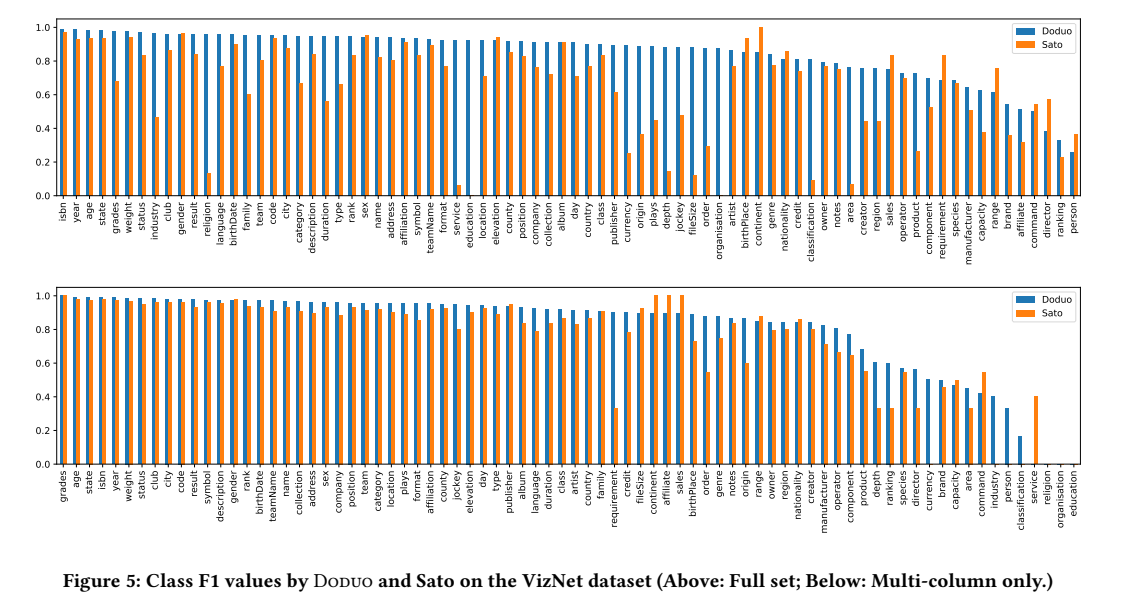
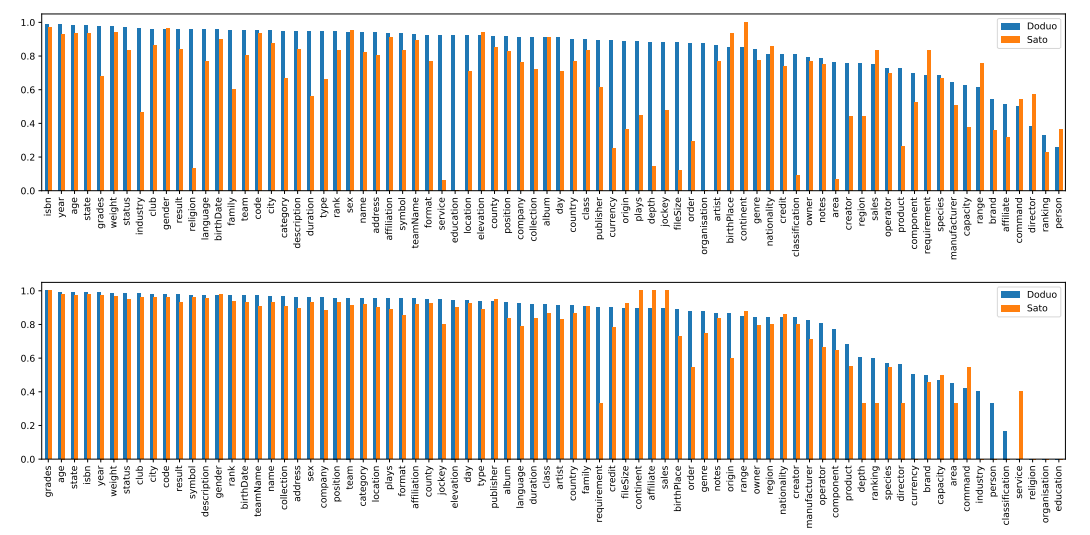
Crop duplicated captions from Doduo paper figures

diff --git a/src/content/posts/doduo-translation/index.md b/src/content/posts/doduo-translation/index.md
@@ -66,7 +66,7 @@ draft: false
 <p class="doduo-zh" lang="zh-CN">图 1 描绘了 Doduo 的模型架构。Doduo 以经过序列化的表格多列取值为输入，输出列类型和列关系的预测。Doduo 通过把同一表格中所有列的列值序列化后一并输入来考虑表格上下文。这样一来，列内信息（即同一列内 token 的共现）和列间信息（即不同列中 token 的共现）都被纳入考虑。Doduo 在每一列的开头附加一个哑符号 [CLS]，并把该符号对应的嵌入作为该列学习到的列表示。位于列嵌入（即 [CLS]）之上的输出层用于列类型预测，而列关系预测的输出层则接收每一对列的列嵌入。</p>
 
 <figure class="doduo-figure">
-  <a href="/images/posts/doduo-translation/figure-1.webp" target="_blank" rel="noopener" aria-label="在新标签页查看原图"><img src="/images/posts/doduo-translation/figure-1.webp" alt="图 1 / Figure 1" width="547" height="542" loading="lazy" decoding="async"></a>
+  <a href="/images/posts/doduo-translation/figure-1.webp" target="_blank" rel="noopener" aria-label="在新标签页查看原图"><img src="/images/posts/doduo-translation/figure-1.webp" alt="图 1 / Figure 1" width="547" height="350" loading="lazy" decoding="async"></a>
   <figcaption>
     <div class="doduo-en" lang="en"><b>Figure 1:</b> Overview of Doduo’s model architecture. Doduo serializes the entire table into a sequence of tokens to make it compatible with the Transformer-based architecture. To handle the column type prediction and column relation extraction tasks, Doduo implements two different output layers on top of column representations and a pair of column representations, respectively.</div>
     <div class="doduo-zh" lang="zh-CN"><b>图 1：</b>Doduo 模型架构总览。Doduo 将整张表格序列化为一个 token 序列，使其与基于 Transformer 的架构相兼容。为处理列类型预测和列关系抽取这两个任务，Doduo 分别在列表示之上和一对列的表示之上实现了两种不同的输出层。</div>
@@ -115,7 +115,7 @@ draft: false
 <p class="doduo-zh" lang="zh-CN">已有的列类型预测模型受益于近年来机器学习的进展，它们把列类型预测表述为一个多类分类任务。Hulsebos 等人 [22] 开发了一个名为 Sherlock 的深度学习模型，在多种特征集上应用神经网络，例如词嵌入、字符嵌入以及从单列取值中提取的全局统计量。Zhang 等人 [66] 开发了 Sato，它在 Sherlock 的基础上加入表格上下文和结构化输出预测，以更好地刻画同一表格中各列之间相关性的本质。其他模型如 ColNet [9]、HNN [10]、Meimei [48]、<i>C</i><sup>2</sup> [24] 则在机器学习模型之上使用外部知识库（KB）来改进列类型预测。这些技术已在列类型预测任务上取得成功，性能优于经典机器学习模型。上述技术关注单列的语义类型，而另一条研究路线则关注同一表格中列与列之间的关系，以更好地理解表格 [4, 13, 28, 29, 34, 54]。</p>
 
 <figure class="doduo-figure">
-  <a href="/images/posts/doduo-translation/figure-2.webp" target="_blank" rel="noopener" aria-label="在新标签页查看原图"><img src="/images/posts/doduo-translation/figure-2.webp" alt="图 2 / Figure 2" width="1138" height="348" loading="lazy" decoding="async"></a>
+  <a href="/images/posts/doduo-translation/figure-2.webp" target="_blank" rel="noopener" aria-label="在新标签页查看原图"><img src="/images/posts/doduo-translation/figure-2.webp" alt="图 2 / Figure 2" width="700" height="215" loading="lazy" decoding="async"></a>
   <figcaption>
     <div class="doduo-en" lang="en"><b>Figure 2:</b> Two example tables from the WikiTable dataset. (a) The task is to predict the column type of each column based on the table values. (b) The task is to predict both column types and relationships between columns. The column types (the column relations) are depicted at the top (at the bottom) of the table. This example also shows that column types and column relations are inter-dependent and hence, our motivation to develop a unified model for predicting both tasks.</div>
     <div class="doduo-zh" lang="zh-CN"><b>图 2：</b>来自 WikiTable 数据集的两张示例表格。(a) 任务是基于表格取值为每一列预测列类型。(b) 任务同时预测列类型与列间关系。列类型（列关系）标注在表格顶部（底部）。该示例还表明，列类型与列关系相互依赖，这也是我们开发统一模型同时预测两个任务的动机。</div>
@@ -275,7 +275,7 @@ draft: false
 <p class="doduo-zh" lang="zh-CN">我们描述 Doduo 如何借助 Transformer 架构，通过上下文化的列嵌入获得表格上下文。图 3 描绘了 Doduo 的每个 Transformer 模块如何从同一表格的所有列值（包括哑符号 [CLS] 及其自身）聚合上下文信息。具体而言，该示例展示了第一层 Transformer 如何以第二列的 [CLS] token 为参照，根据与其他 token 的相似度聚合它们的嵌入来计算注意力向量。因此，同一个符号（如 George）出现在不同上下文中时，其注意力向量可以不同。这解决了 word2vec 或 GloVe 等传统词嵌入技术的歧义问题。</p>
 
 <figure class="doduo-figure">
-  <a href="/images/posts/doduo-translation/figure-3.webp" target="_blank" rel="noopener" aria-label="在新标签页查看原图"><img src="/images/posts/doduo-translation/figure-3.webp" alt="图 3 / Figure 3" width="600" height="281" loading="lazy" decoding="async"></a>
+  <a href="/images/posts/doduo-translation/figure-3.webp" target="_blank" rel="noopener" aria-label="在新标签页查看原图"><img src="/images/posts/doduo-translation/figure-3.webp" alt="图 3 / Figure 3" width="470" height="145" loading="lazy" decoding="async"></a>
   <figcaption>
     <div class="doduo-en" lang="en"><b>Figure 3:</b> How Doduo computes contextualized column embeddings using the Transformer layers. Each Transformer block calculates an embedding vector for every token based on surrounding tokens.</div>
     <div class="doduo-zh" lang="zh-CN"><b>图 3：</b>Doduo 如何利用 Transformer 层计算上下文化的列嵌入。每个 Transformer 模块基于周围的 token 为每个 token 计算一个嵌入向量。</div>
@@ -492,7 +492,7 @@ draft: false
 <p class="doduo-zh" lang="zh-CN"><b>学习效率</b>　预训练 LM 以能用相对少量的标注样本训练出高质量模型而著称。此外，多任务学习（即同时训练多个任务）应在每个任务训练数据更少时进一步稳定性能。为验证 Doduo 与 Dosolo 在标签效率方面的表现，我们比较了用不同训练数据规模（10%、25%、50%、100%）训练的 Doduo 模型，并在列类型预测和列关系预测任务上评估性能。如图 4 所示，Doduo 始终优于 Dosolo，即使只用一半训练数据，在两个任务上也都达到高于 0.9 的 F1 分数。特别地，仅使用 50% 或更少的标注样本，Doduo 在列类型预测上就优于最优方法 TURL，在列关系预测上也达到可与之相比的性能。</p>
 
 <figure class="doduo-figure">
-  <a href="/images/posts/doduo-translation/figure-4.webp" target="_blank" rel="noopener" aria-label="在新标签页查看原图"><img src="/images/posts/doduo-translation/figure-4.webp" alt="图 4 / Figure 4" width="547" height="374" loading="lazy" decoding="async"></a>
+  <a href="/images/posts/doduo-translation/figure-4.webp" target="_blank" rel="noopener" aria-label="在新标签页查看原图"><img src="/images/posts/doduo-translation/figure-4.webp" alt="图 4 / Figure 4" width="547" height="252" loading="lazy" decoding="async"></a>
   <figcaption>
     <div class="doduo-en" lang="en"><b>Figure 4:</b> Performance improvements over increasing the training data size on the WikiTable dataset. The dashed lines in the plots denote the state-of-the-art methods (TURL.)</div>
     <div class="doduo-zh" lang="zh-CN"><b>图 4：</b>在 WikiTable 数据集上，性能随训练数据规模增加而提升的情况。图中的虚线表示当时的最优方法（TURL）。</div>
@@ -684,7 +684,7 @@ draft: false
 <p class="doduo-zh" lang="zh-CN">图 5 展示了 Doduo 与 Sato 在 VizNet（完整集）和 VizNet（仅多列）数据集上每个类别的 F1 分数。在 VizNet 的两个变体上相对 Sato 的提升表明，Doduo 稳健且一致地优于 Sato，尤其是在单列表格上——在单列表格中 Sato 无法受益于表格特征和 CRF。我们发现，Sato 在 religion、education、organisation 这几类上的 F1 为零或非常差。VizNet（完整集）第 1 折的训练数据中，这三类的标注列分别只有 24、22 和 14 个。Sato 应当是由于这些列类型的训练样本不足（很可能还有列类型分布偏斜）而表现不佳。我们表明，Doduo 在这类列类型上表现稳健。</p>
 
 <figure class="doduo-figure">
-  <a href="/images/posts/doduo-translation/figure-5.webp" target="_blank" rel="noopener" aria-label="在新标签页查看原图"><img src="/images/posts/doduo-translation/figure-5.webp" alt="图 5 / Figure 5" width="1127" height="605" loading="lazy" decoding="async"></a>
+  <a href="/images/posts/doduo-translation/figure-5.webp" target="_blank" rel="noopener" aria-label="在新标签页查看原图"><img src="/images/posts/doduo-translation/figure-5.webp" alt="图 5 / Figure 5" width="1090" height="535" loading="lazy" decoding="async"></a>
   <figcaption>
     <div class="doduo-en" lang="en"><b>Figure 5:</b> Class F1 values by Doduo and Sato on the VizNet dataset (Above: Full set; Below: Multi-column only.)</div>
     <div class="doduo-zh" lang="zh-CN"><b>图 5：</b>Doduo 与 Sato 在 VizNet 数据集上各分类的 F1 值（上：完整集；下：仅多列）。</div>
@@ -774,7 +774,7 @@ draft: false
 <p class="doduo-zh" lang="zh-CN">最终矩阵中的每个元素 (<i>i</i>, <i>j</i>) 表示列类型 <i>i</i> 在构造其上下文化表示时对另一个列类型 <i>j</i> 的依赖程度。需要注意，列类型 <i>i</i> 对 <i>j</i>（或 <i>j</i> 对 <i>i</i>）的依赖可以不同，因此该矩阵并不对称。例如，age 高度依赖类型 origin，而反方向的注意力权重为负，显示出较低的依赖程度。为消除列类型共现带来的影响，我们统计了同一表格中列类型的共现情况，并对矩阵做归一化，使参照点为零，以便更直观地解释。最终矩阵由相对重要性分数构成，数值越高/越低表示来自该列类型的影响越强/越弱。</p>
 
 <figure class="doduo-figure">
-  <a href="/images/posts/doduo-translation/figure-6.webp" target="_blank" rel="noopener" aria-label="在新标签页查看原图"><img src="/images/posts/doduo-translation/figure-6.webp" alt="图 6 / Figure 6" width="556" height="663" loading="lazy" decoding="async"></a>
+  <a href="/images/posts/doduo-translation/figure-6.webp" target="_blank" rel="noopener" aria-label="在新标签页查看原图"><img src="/images/posts/doduo-translation/figure-6.webp" alt="图 6 / Figure 6" width="540" height="450" loading="lazy" decoding="async"></a>
   <figcaption>
     <div class="doduo-en" lang="en"><b>Figure 6:</b> Inter-column dependency based on attention analysis on the VizNet dataset. A higher value (red) indicates that the column type (<i>y</i>-axis) “relies on” the other column type (<i>x</i>-axis) for prediction. Each row denotes the degree of “dependence” against each column. For example, age in <i>y</i>-axis has a high attention weight against origin in <i>x</i>-axis, indicating that predicting age relies on signals from the origin column.</div>
     <div class="doduo-zh" lang="zh-CN"><b>图 6：</b>基于 VizNet 数据集上注意力分析的列间依赖。数值越高（红色）表示该列类型（<i>y</i> 轴）在预测时“依赖”另一个列类型（<i>x</i> 轴）。每一行表示相对于各列的“依赖”程度。例如，<i>y</i> 轴上的 age 相对于 <i>x</i> 轴上的 origin 具有较高的注意力权重，表明预测 age 依赖来自 origin 列的信号。</div>
